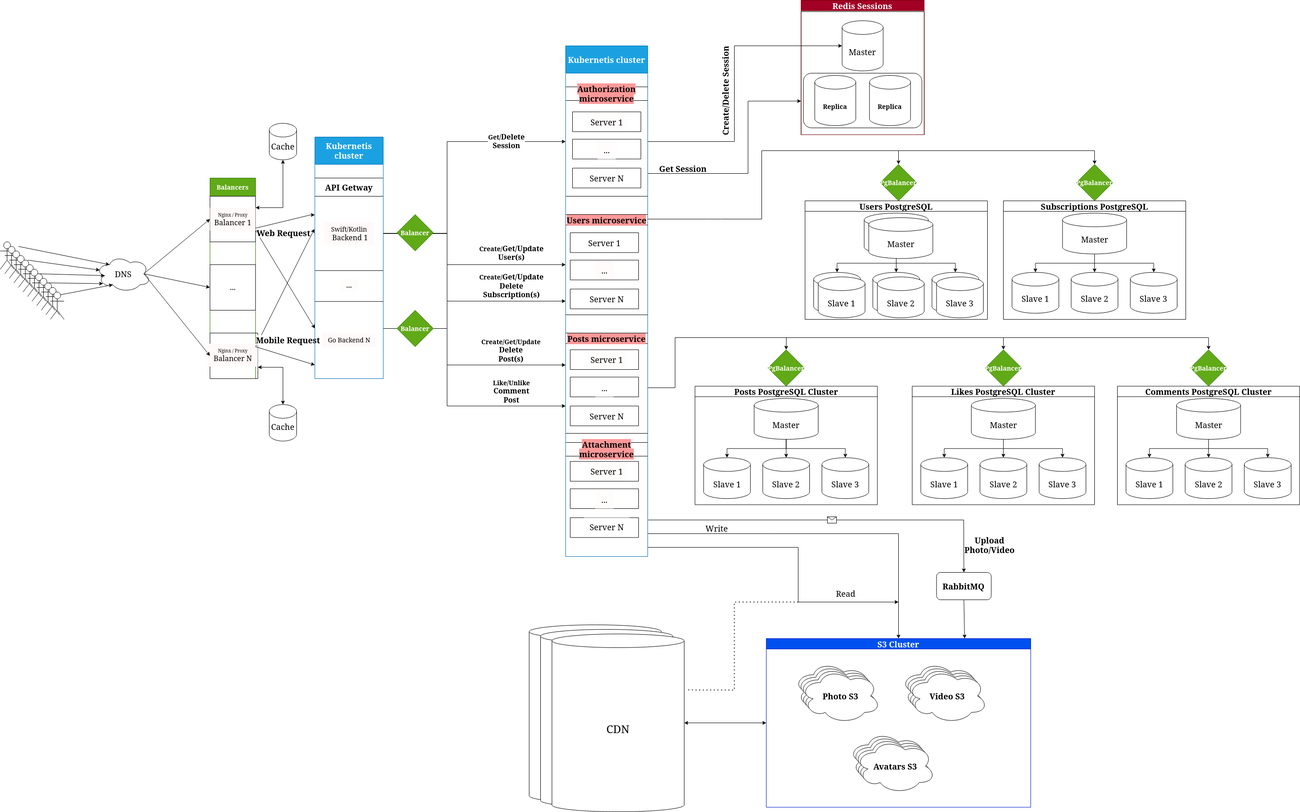
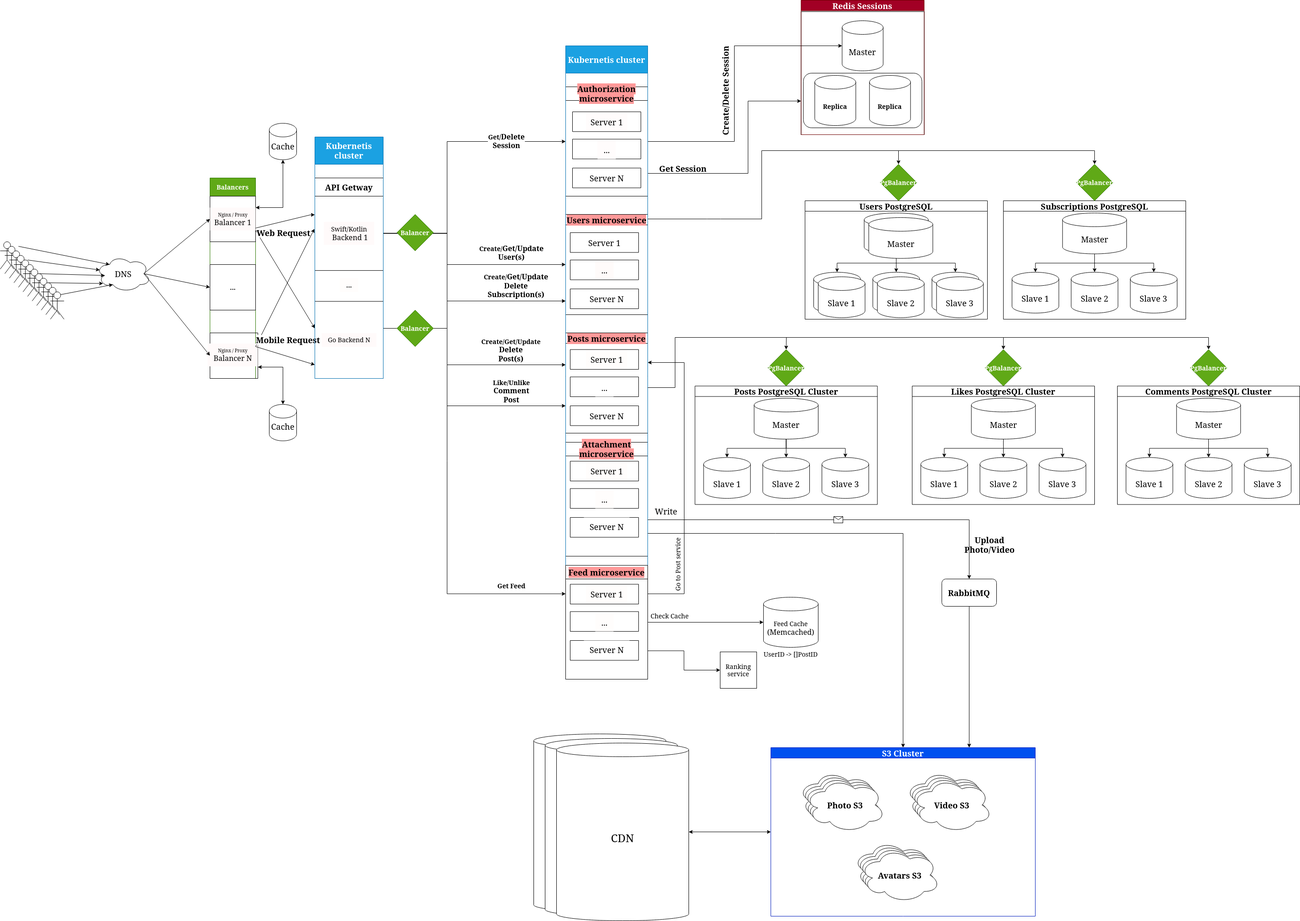
edit design of feed gen and sharding plan

diff --git a/README.md b/README.md
@@ -278,18 +278,25 @@
 
 - Индекс на поле `nickname` в таблице `users` будет нужен в случае того, если пользователь решит найти другого по никнейму. Таким образом индекс увеличит селективность по этому полю;
 - Индекс на поле `user_id` в таблице `posts` нужен для быстрого поиска пользователя, пост которого был увиден;
-- Индекс на поле `post_id` в таблице `comments` нужен для быстрой подгрузки всех комментраиев у посту;
+- Индекс на поле `post_id` в таблице `comments` нужен для быстрой подгрузки всех комментраиев к посту;
+- Индекс на поля `id` и `date_created` для подгрузки поста по нужной дате;
 - Индексы на поля `creator_id` и `follower_id` в таблице `subscriptions` будут полезны для улучшения селективности подписчиков и подписок соответственно.
 
 ### Шардирование
 
-- Users: шардирование будет проводиться по range-based принципу для более равномерного распределения данных;
-- Posts: здесь применяем партиционирование по принципу range-based, а шардировать по разным инстансам по дате создания поста. Таким образом новые посты будут находиться в одном месте, что позволит быстро получать их для прогрузкки ленты или первых постов на странице пользователя. Старые же посты так же будут доставляться быстро;
-- Comments: комментарии будет логично шардировать по такому же принципу, что и посты для согласованности данных, то есть на том же инстансе, что и посты нужной даты.
+- **Users**: шардирование будет проводиться по принципу хэширования [`hash(nickname) % shurd_num`] для более равномерного распределения данных (важно, чтобы хэш-функция действительно могла выполнять это требование). Таким образом, при вычисления хэша мы точно будем знать, к какому узлу обратиться, чтобы гарантированно получить запрашиваемые данные.
+
+    При этом стоит учесть, что будут популярные пользователи, запрос к которым будет чаще, поэтому для них стоит добавить исключение, которое заключается в том, что для списка популярных пользователей будут выделяться узлы, которые будут обрабатывать топ-1000 пользователей. Это позволит отвести больше ресурсов и пропускной способности для обработки запросов, связанных с этими пользователями;
+
+- **Followers**: таблица с подписками будем храниться на том же шарде, что и users для согласованности данных.
+
+- **Posts**: здесь применяем партиционирование по принципу range-based, а шардировать по разным инстансам по дате создания поста не получится, потому что запросов на новые посты будет куда чаще, чем к старым. Поэтому шардирование будет происходить по полю user_id. В случае, если какой-то шард будет перегужен, система должна суметь динамически расширить вычислительную мощность посредством добавления узлов. Для популярных пользователей стоит также отвести отдельные шарды, как это было описано в предыдущем пункте;
+
+- **Comments, Likes**: комментарии будет логично шардировать по такому же принципу, что и посты для согласованности данных, то есть на том же инстансе, что и посты нужной даты.
 
 ### Репликация
 
-Для PostgreSQL будет сделана Master-Slaves репликация. Таким образом, когда на Master базу будут записываться данные, с Slave баз будет читаться информация. Также при отказе одного Slave узла чтение может продолжится посредством переключения на другой узел.
+Для PostgreSQL будет сделана Master-Slaves репликация. Таким образом, когда на Master базу будут записываться данные, с Slave баз будет читаться информация. Также при отказе одного Slave узла чтение может продолжится посредством переключения на другой узел. В случае отказа Master узла, главным будет ставновиться один из Slave'ов.
 
 ### Кэширование
 
@@ -326,7 +333,7 @@
 
 Первоначально запросы поступают от пользователей через DNS-сервер, который по алгоритму Round-robin будет перенапрвлять на один из серверов-балансировщиков. Каждый из них будет перенапрявлять запрос на наименее загруженный сервер-бэкенд. У каждого сервера будет свой кэш запросов для быстрого ответа в случае популярного запроса.
 
-Перейдем к кластеру API Getway, которые будут обрабатывать запросы, выполнять бизнес логику и ходить дальше в микросервисы за нужными данными. Весь кластер будет управляться Kubernetes. Все метрики будут собираться в базе Prometheus. У бэкендов будут свои балансировщики нагрузки, задача которых будет заключаться в балансировке нагрузки между узлами микросервисов.
+Перейдем к кластеру API Gateway, которые будут обрабатывать запросы, выполнять бизнес логику и ходить дальше в микросервисы за нужными данными. Весь кластер будет управляться Kubernetes. Все метрики будут собираться в базе Prometheus. У бэкендов будут свои балансировщики нагрузки, задача которых будет заключаться в балансировке нагрузки между узлами микросервисов.
 
 Рассмотрим микросервисы:
 
@@ -352,6 +359,10 @@
 
     Для загрузки фото/видео на базу стоит поставить брокер очередей `RabbitMQ`. За счет него сможем выполнять запросы асинхронно. Это важно, потому что загрузка контента занимает какое-то время. Чтобы не блокировать воркера на время загрузки, он будет брать еще задачи и ставить их в очередь.
 
+5. Feed microservice
+
+    В силу того, что система имеет ключевой функционал, являющийся генерацией ленты, нужен сервис, отвечающий за это. В нем будет происходить логика формирования ленты индивидуально для каждого полдьзователя.
+
 ### Логика формирования ленты
 
 Так как загрузка ленты является самым большим по rps запросу, стоит продумать, как она будет формироваться. Опишу общую логику на получение ленты в архитектуре:
@@ -360,36 +371,21 @@
 
 2. API Gateway проверяет авторизацию пользователя, используя микросервис Authorization. Если пользователь не авторизован, возвращается ошибка.
 
-3. После успешной авторизации API Gateway отправляет запрос на микросервис Users для получения подписчиков (или другой информации, в зависимости от алгоритма сбора ленты). Данные возвращаются на слой Getway.
+3. После успешной авторизации API Gateway отправляет запрос на микросервис Feed. На этом этапе сервис ходит в базу, проверяет наличие id пользователя в ней. Это так называемый кэш, в котором будут находиться предопределенные id постов, которые нужно подгрузить в ленте.
 
-4. Далее запрос с данными о нужных пользователях идет в микросервис Posts.Запрос может быть сформулирован на основе подписок пользователя или других более сложных алгоритмов (например, популярные посты пользователей, на которые подписан человек).
+4. В случае, если в кэше ничего не нашлось, сервис пойдет в сервис пользователей, где возьмет всех пользователей, на которых подписан человек (по схеме, описанной выше). Полученные данные пойдут в сервис постов, где возьмутся посты людей за определенный промежуток времени (за оптимальность также отвечает индекс для даты, описанный выше) и отсортируются по дате. Полученная инфорация сохраниться в кэш ленты.
 
-5. Микросервис Posts получает нужных пользователей, посты которых нужно подгрузить, проверяет, являются ли они новыми и в этом случае ищет именно новые посты.
+5. После получения id постов, которые нужно получить, идем сначала в сервис постов для получения метаданных, а затем в сервис attachments, где и получим сам контент. Результат возвращается клиенту.
 
-6. В случае отсутствия новых проверяет кэш самых популярных запросов (часто запрашиваемых пользователями) и подгружает их вместе с постами, которые пользователь уже видел.
+Для наглядности представлю ключевую часть схемы генерации ленты:
 
-7. Для получения самого контента после составления плана подгрузки постов микросервис Posts идет в Attachments, где дальше ищется контент в S3-хранилище.
+![Генерация ленты](/img/feed.png)
 
-8. Если есть новые посты, микросервис Posts сохраняет их в свой кэш для будущих запросов.
+Опишу ключевые моменты. Начну с добавления поста. Как видно на схеме, запрос, проходя через слой Gateway, идет в сервис постов, а затем добавляет метаданные в базу, потом запрос кладется в брокер очереди, который будет идти в сервис attachments для загрузки контента, а также в сервис ленты, чтобы уведомить сервис о том, что у пользователя N появилась новая фотография. Далее этот сервис будет ходить в базу Memcached, чтобы добавить всем пользователям, которые подписаны на человека только что загрузившего пост, id этого поста.
 
-9. Микросервис Posts возвращает посты в API Gateway.
+Брокер очередей для загрузки поста нужен для отложенной обработки, так как нет необходимости подгружать пост моментально всем. Автору же пост подгрузится моментально на уровне фронтенда.
 
-10. API Gateway возвращает посты пользователю в качестве ответа на запрос ленты.
-
-Возможные сценарии получения ленты:
-
-- Классический - получаем посты, которые еще не видел пользователь от своих подписок;
-- Географический - получаем посты, основываясь на местоположении пользователя. Например, показываем посты от людей, находящихся из определенного географического региона;
-- Персонализированный - алгоритм анализирует предпочтения пользователя, его историю просмотров или поведение в социальной сети и предлагает посты, которые могут быть наиболее интересными для данного пользователя;
-- Топовый - показываем самые популярные и обсуждаемые посты в данный момент, основываясь на количестве лайков, комментариев или репостов.
-
-Вообще, для разнообразности контента нужно перемешивать посты из перечисленных выше пунктов кроме классического. Таким образом лента у пользователя будет более разнообразной и интересной.
-
-При этом для обеспечения отказоустойчивости и высокой производительности будут использованы следующие подходы:
-
-Кэширование: Для снижения нагрузки на базы данных и другие хранилища, результаты запросов должны быть кэшированы. Например, информация о подписчиках пользователя или самые популярные запросы кэшируются в системе Memcached. Это позволяет избежать повторных запросов к базам данных при получении одинаковых запросов на формирование ленты.
-
-Асинхронная обработка: Использование асинхронности и брокеров сообщений RabbitMQ позволяет обрабатывать запросы асинхронно и более эффективно. Это позволяет освободить воркеры от блокировки и продолжать обработку других задач во время загрузки контента или выполнения других долгих операций.
+Таким образом при генерации ленты у пользователя будет смотреться кэш текущих id постов и затем идти в базу для отдачи этих постов.
 
 ### Логический план запроса
 
@@ -400,7 +396,7 @@
     - Клиент отправляет запрос на создание нового поста через API Gateway.
     - API Gateway перенаправляет запрос к микросервису Attachments.
     - Далее идем в S3 хранилище и ставим запрос в брокер очередей.
-    - После сохранения изображения возвращаемся в Getway и идем в Posts.
+    - После сохранения изображения возвращаемся в Gateway и идем в Posts.
     - Микросервис Posts сохраняет информацию о посте и формирует ответ с идентификатором созданного поста и отправляет его обратно клиенту через API Gateway.
 
 2. Запрос на получение информации о пользователе
